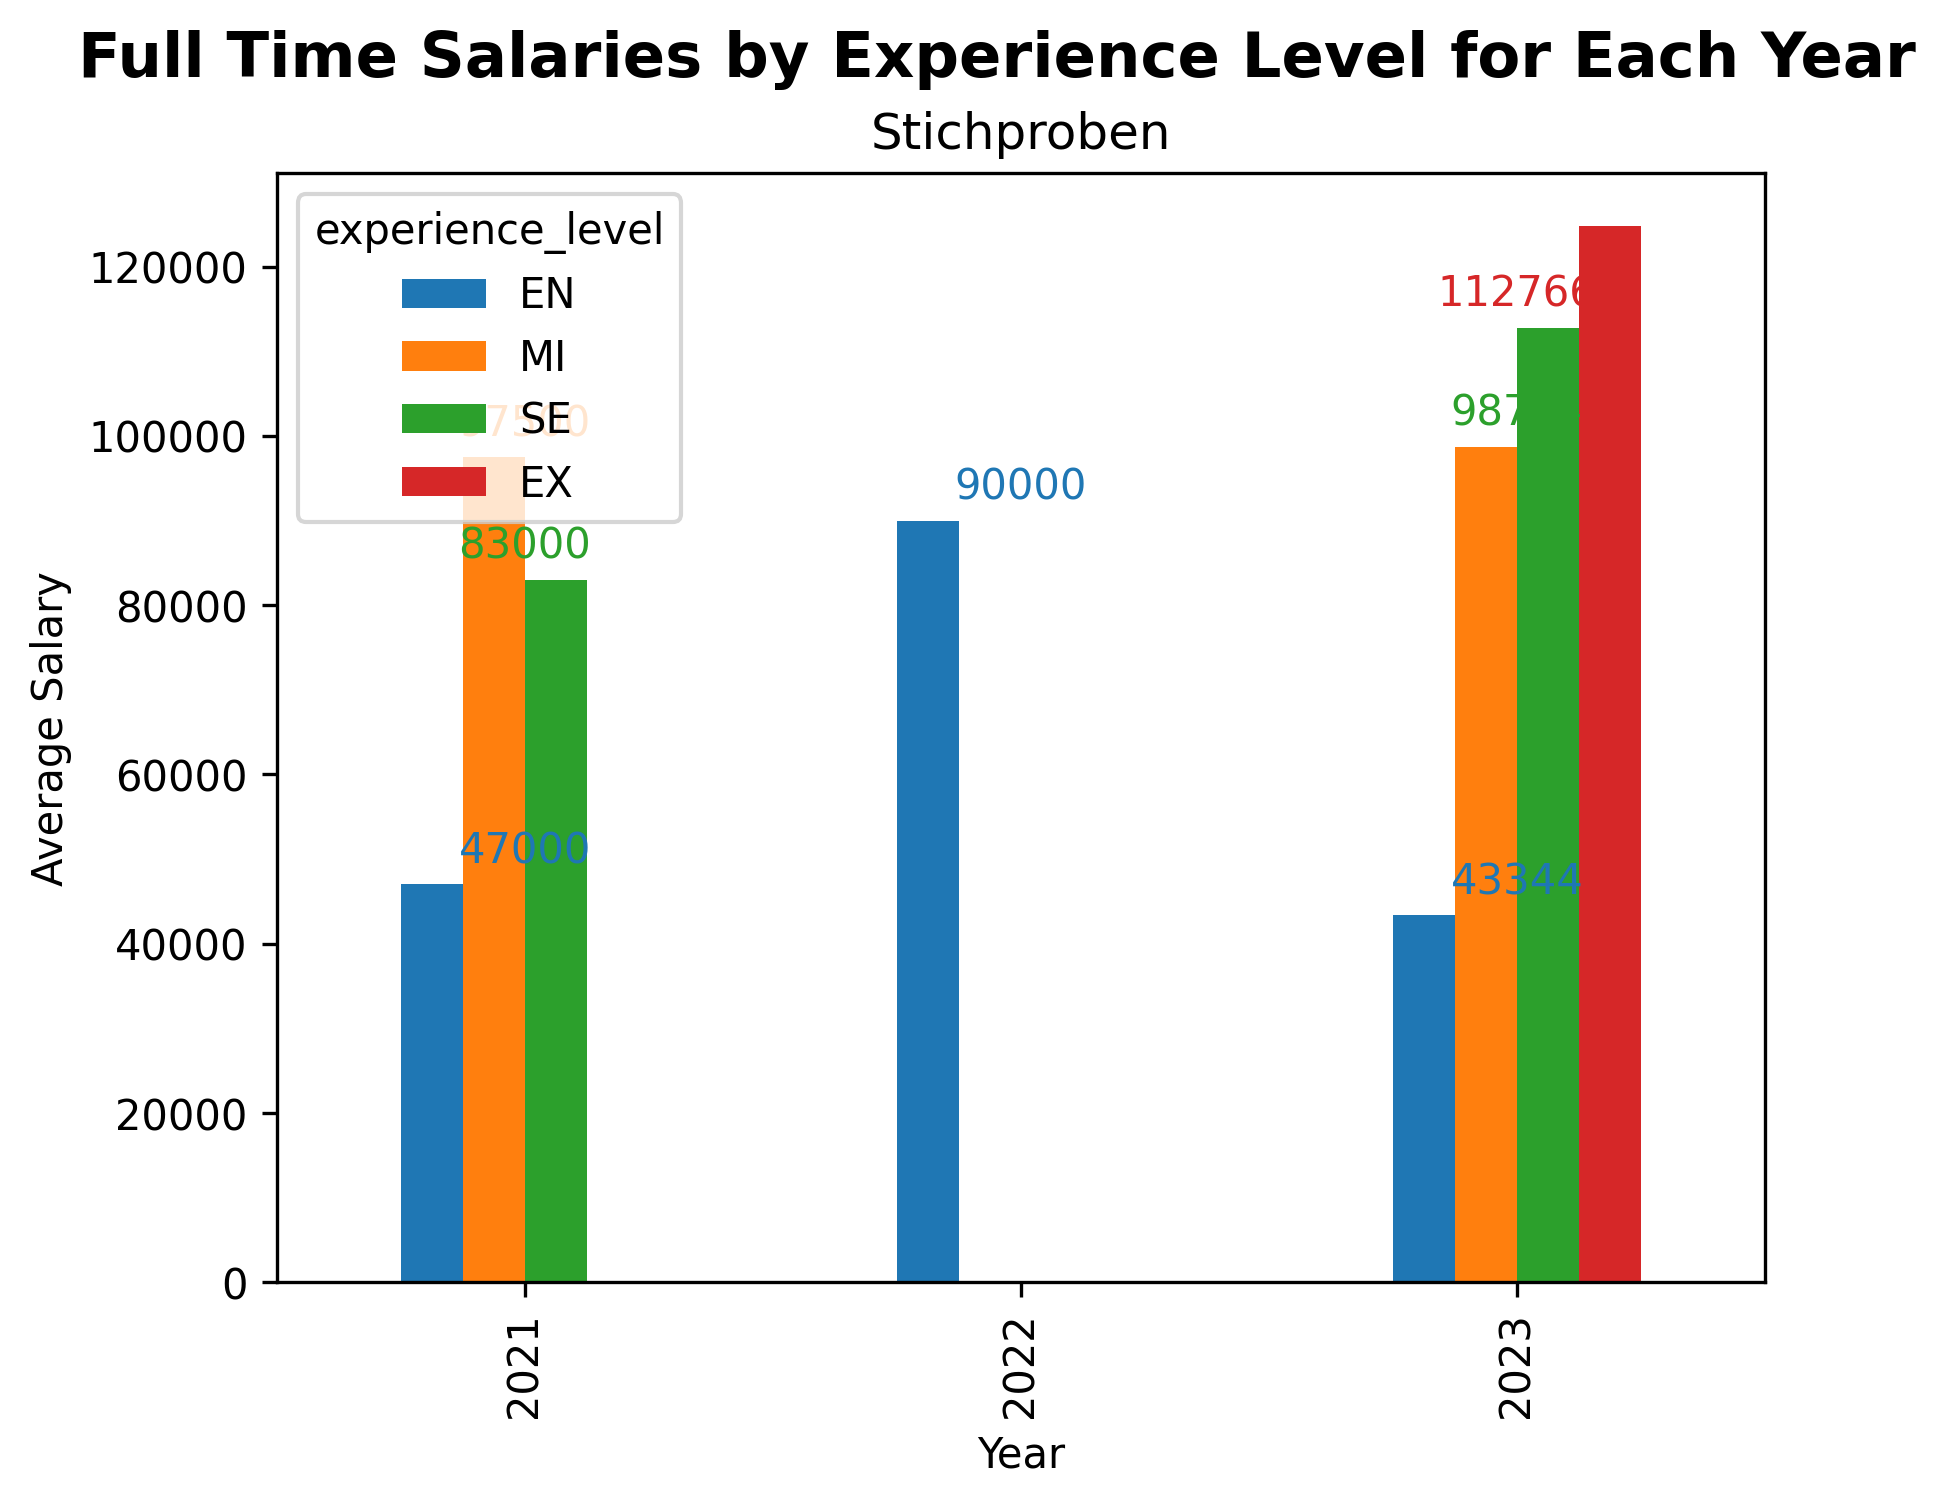
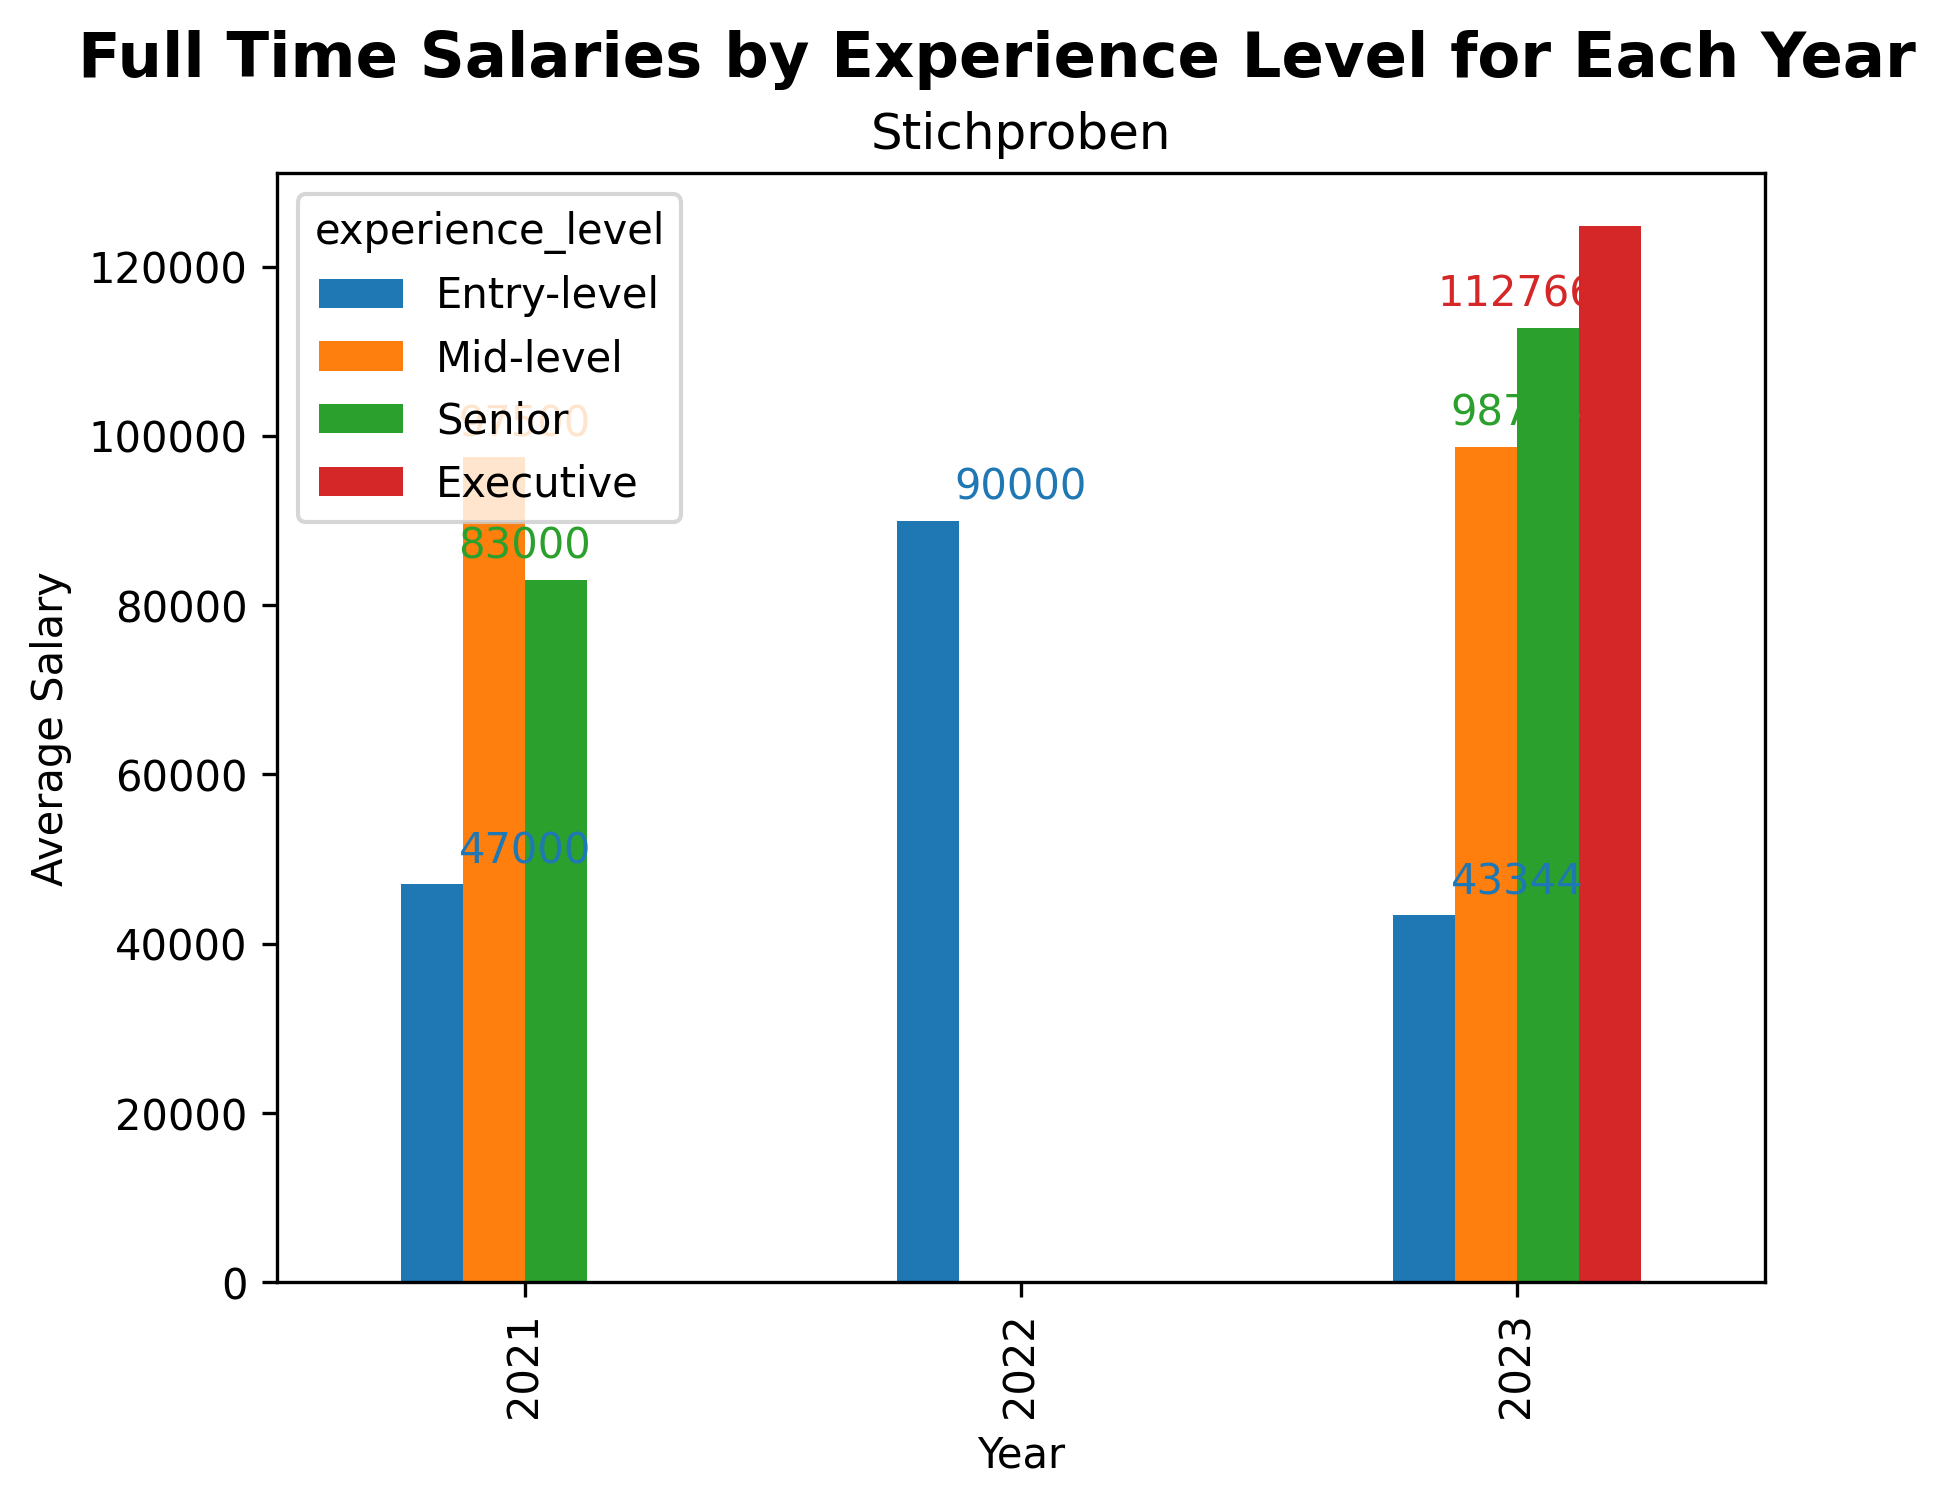
Fix naming

Changed region(s): [[0.1542, 0.1873, 0.3393, 0.3433]]

diff --git a/money_per_experience_full_time.py b/money_per_experience_full_time.py
@@ -1,12 +1,25 @@
 import pandas as pd
 import matplotlib.pyplot as plt
 
+from filtered_data_set import us_filtered_data
+
 
 def money_per_experience_full_time_plot(data, filename, title='ai-jobs.net'):
     plt.figure()
 
+    mapping = {
+        "SE": "Senior",
+        "EX": "Executive",
+        "EN": "Entry-level",
+        "MI": "Mid-level"
+    }
+
+    # Map the values in the "experience_level" column to the desired names
+    data['experience_level'] = data['experience_level'].map(mapping)
+
+
     # Define the desired order of experience levels
-    experience_order = ['EN', 'MI', 'SE', 'EX']
+    experience_order = ['Entry-level', 'Mid-level', 'Senior', 'Executive']
 
     # Group the data by year, experience level, and calculate the average salary
     grouped_data = data.groupby(['work_year', 'experience_level'])['salary_in_usd'].mean().unstack()
